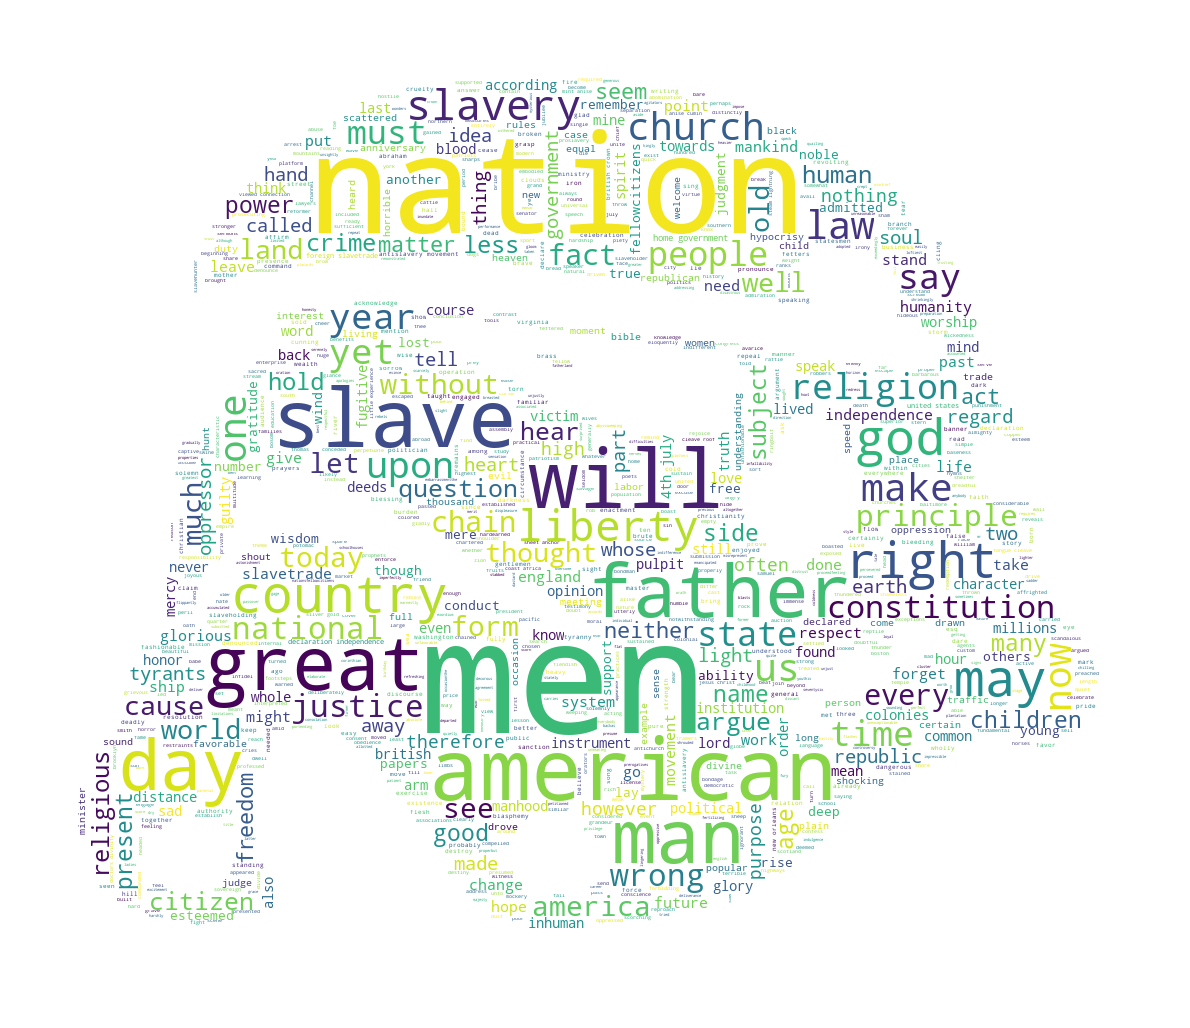
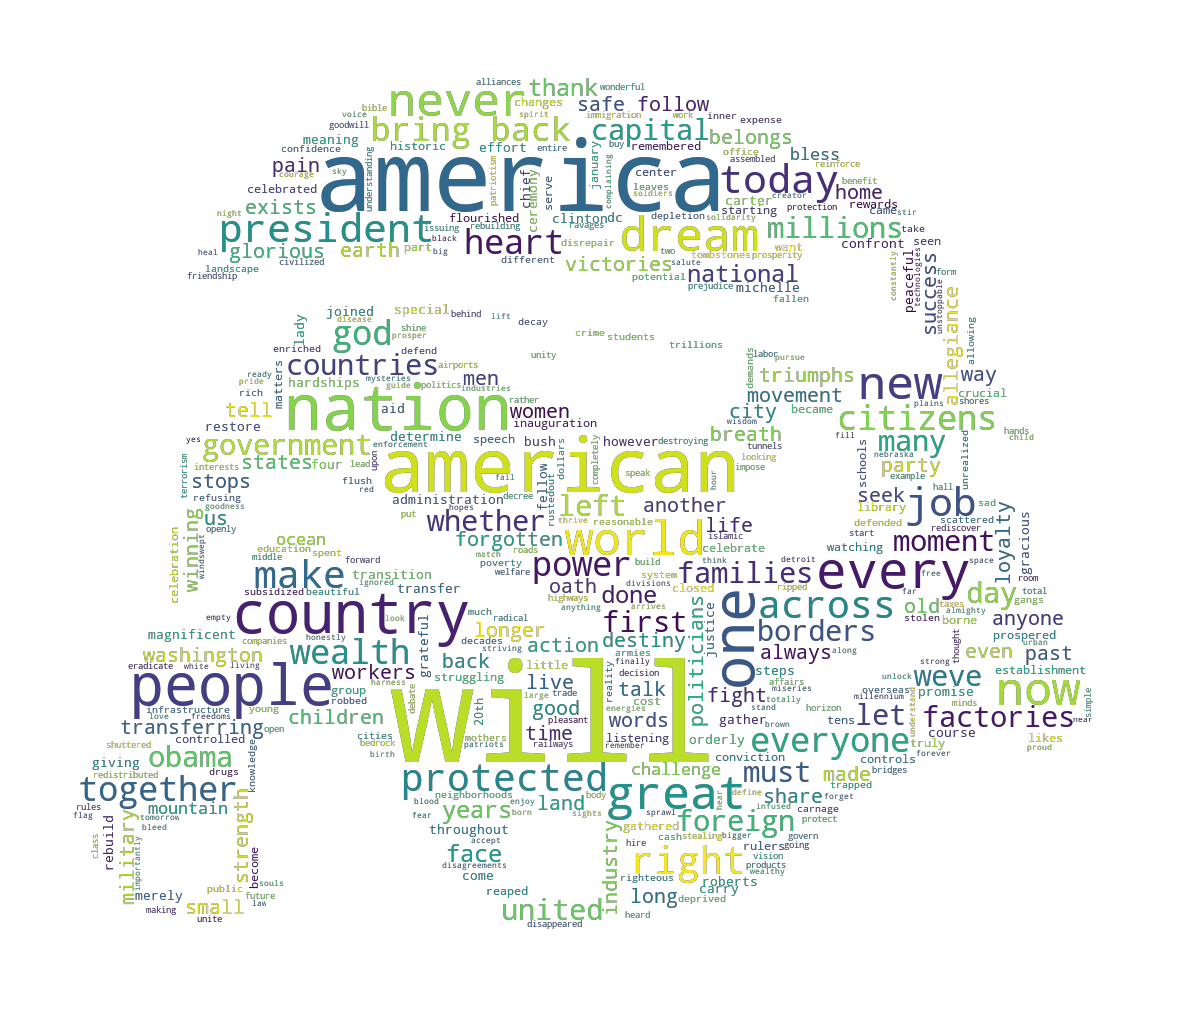
trump rdy

Changed region(s): [[0.0622, 0.0623, 0.9328, 0.9027]]

diff --git a/main_trump.py b/main_trump.py
@@ -17,6 +17,7 @@ from nltk.corpus import stopwords
 import os
 import pysentiment as ps
 
+
 # Define URL
 url = "http://www.cnn.com/2017/01/20/politics/trump-inaugural-address/"
 
@@ -26,13 +27,29 @@ parsed_html = bs4.BeautifulSoup(raw_html, "lxml") # Choose lxml parser
 # type bs4.element.ResultSet
 text = parsed_html.find_all("div", class_ = "zn-body__paragraph")
 
-# Speech stored in text list
+# Speech stored in list
 textl = [] # init
 for i in text:
     textl.append(i.get_text())
 
-cleantext = str(textl)
+# Convert to string
+cleantextprep = str(textl)
+
+
+
+# Regex cleaning
+expression = "[^a-zA-Z0-9 ]" # keep only letters, numbers and whitespace
+cleantextCAP = re.sub(expression, '', cleantextprep) # apply regex
+cleantext = cleantextCAP.lower() # lower case 
+
+
+# Save dictionaries for wordcloud
+text_file = open("Output.txt", "w")
+text_file.write(str(cleantext))
+text_file.close()
+
     
+
 
 # Count and create dictionary
 dat = list(cleantext.split())
@@ -53,7 +70,6 @@ dict2 = dict((k, dict1[k]) for k in filtered_words if k in filtered_words)
 
 # Resort in list
 # Reconvert to dictionary
-
 def valueSelection(dictionary, length, startindex = 0): # length is length of highest consecutive value vector
     
     # Test input
@@ -76,27 +92,24 @@ def valueSelection(dictionary, length, startindex = 0): # length is length of hi
     
 dictshow = valueSelection(dictionary = dict2, length = 7, startindex = 0)
 
-# Save dictionaries for wordcloud
-text_file = open("Output.txt", "w")
-text_file.write(str(cleantext))
-text_file.close()
 
 
-# Plot
+# Plot most frequent words
 n = range(len(dictshow))
 plt.bar(n, dictshow.values(), align='center')
 plt.xticks(n, dictshow.keys())
 plt.title("Most frequent Words")
-plt.savefig("plot.png")
+plt.savefig("FrequentWords.png", transparent=True)
 
 # Overview
-overview =  valueSelection(dictionary = dict2, length = 1000, startindex = 0)
+overview =  valueSelection(dictionary = dict2, length = 400, startindex = 0)
 nOverview = range(len(overview.keys()))
 plt.bar(nOverview, overview.values(), color = "g", tick_label = "")
 plt.title("Word Frequency Overview")
 plt.xticks([])
-plt.savefig("overview.png")
-
+#plt.savefig("overview.png")
+plt.savefig("overview.png", transparent = True)
+#plt.savefig('overview.png', transparent=True)
 
 # Sentiment Analysis
 hiv4 = ps.HIV4()

diff --git a/stormtrooper_wordcloud_script.py b/stormtrooper_wordcloud_script.py
@@ -11,8 +11,6 @@ import numpy as np
 import matplotlib.pyplot as plt
 from wordcloud import WordCloud, STOPWORDS
 
-
-
 d = "C:/Users/Julian/pyning"
 
 
@@ -26,14 +24,13 @@ stormtrooper_mask = np.array(Image.open(path.join(d, "stormtrooper_mask.png")))
 stopwords = set(STOPWORDS)
 stopwords.add("said")
 
+# Construct Word Cloud
+# no backgroundcolor and mode = 'RGBA' create transparency
+wc = WordCloud(max_words=1000, mask=stormtrooper_mask,
+stopwords=stopwords, mode = 'RGBA', background_color=None)
 
-wc = WordCloud(background_color="white", max_words=1000, mask=stormtrooper_mask,
-stopwords=stopwords)
-
-
-# generate word cloud
+# Pass Text
 wc.generate(text)
-
 
 # store to file
 wc.to_file(path.join(d, "a_new_hope.png"))
@@ -47,3 +44,4 @@ plt.imshow(stormtrooper_mask, cmap=plt.cm.gray, interpolation='bilinear')
 plt.axis("off")
 plt.show()
 plt.savefig("stormtrooper.png")
+

diff --git a/transparency.py b/transparency.py
@@ -1,0 +1,15 @@
+# -*- coding: utf-8 -*-
+"""
+Created on Sat Jan  6 21:21:58 2018
+
+@author: Julian
+"""
+
+from PIL import Image, ImageDraw
+
+img = Image.new('RGBA',(100, 100))
+
+draw = ImageDraw.Draw(img)
+draw.ellipse((25, 25, 75, 75), fill=(255, 0, 0))
+
+img.save('test.gif', 'GIF', transparency=0)
